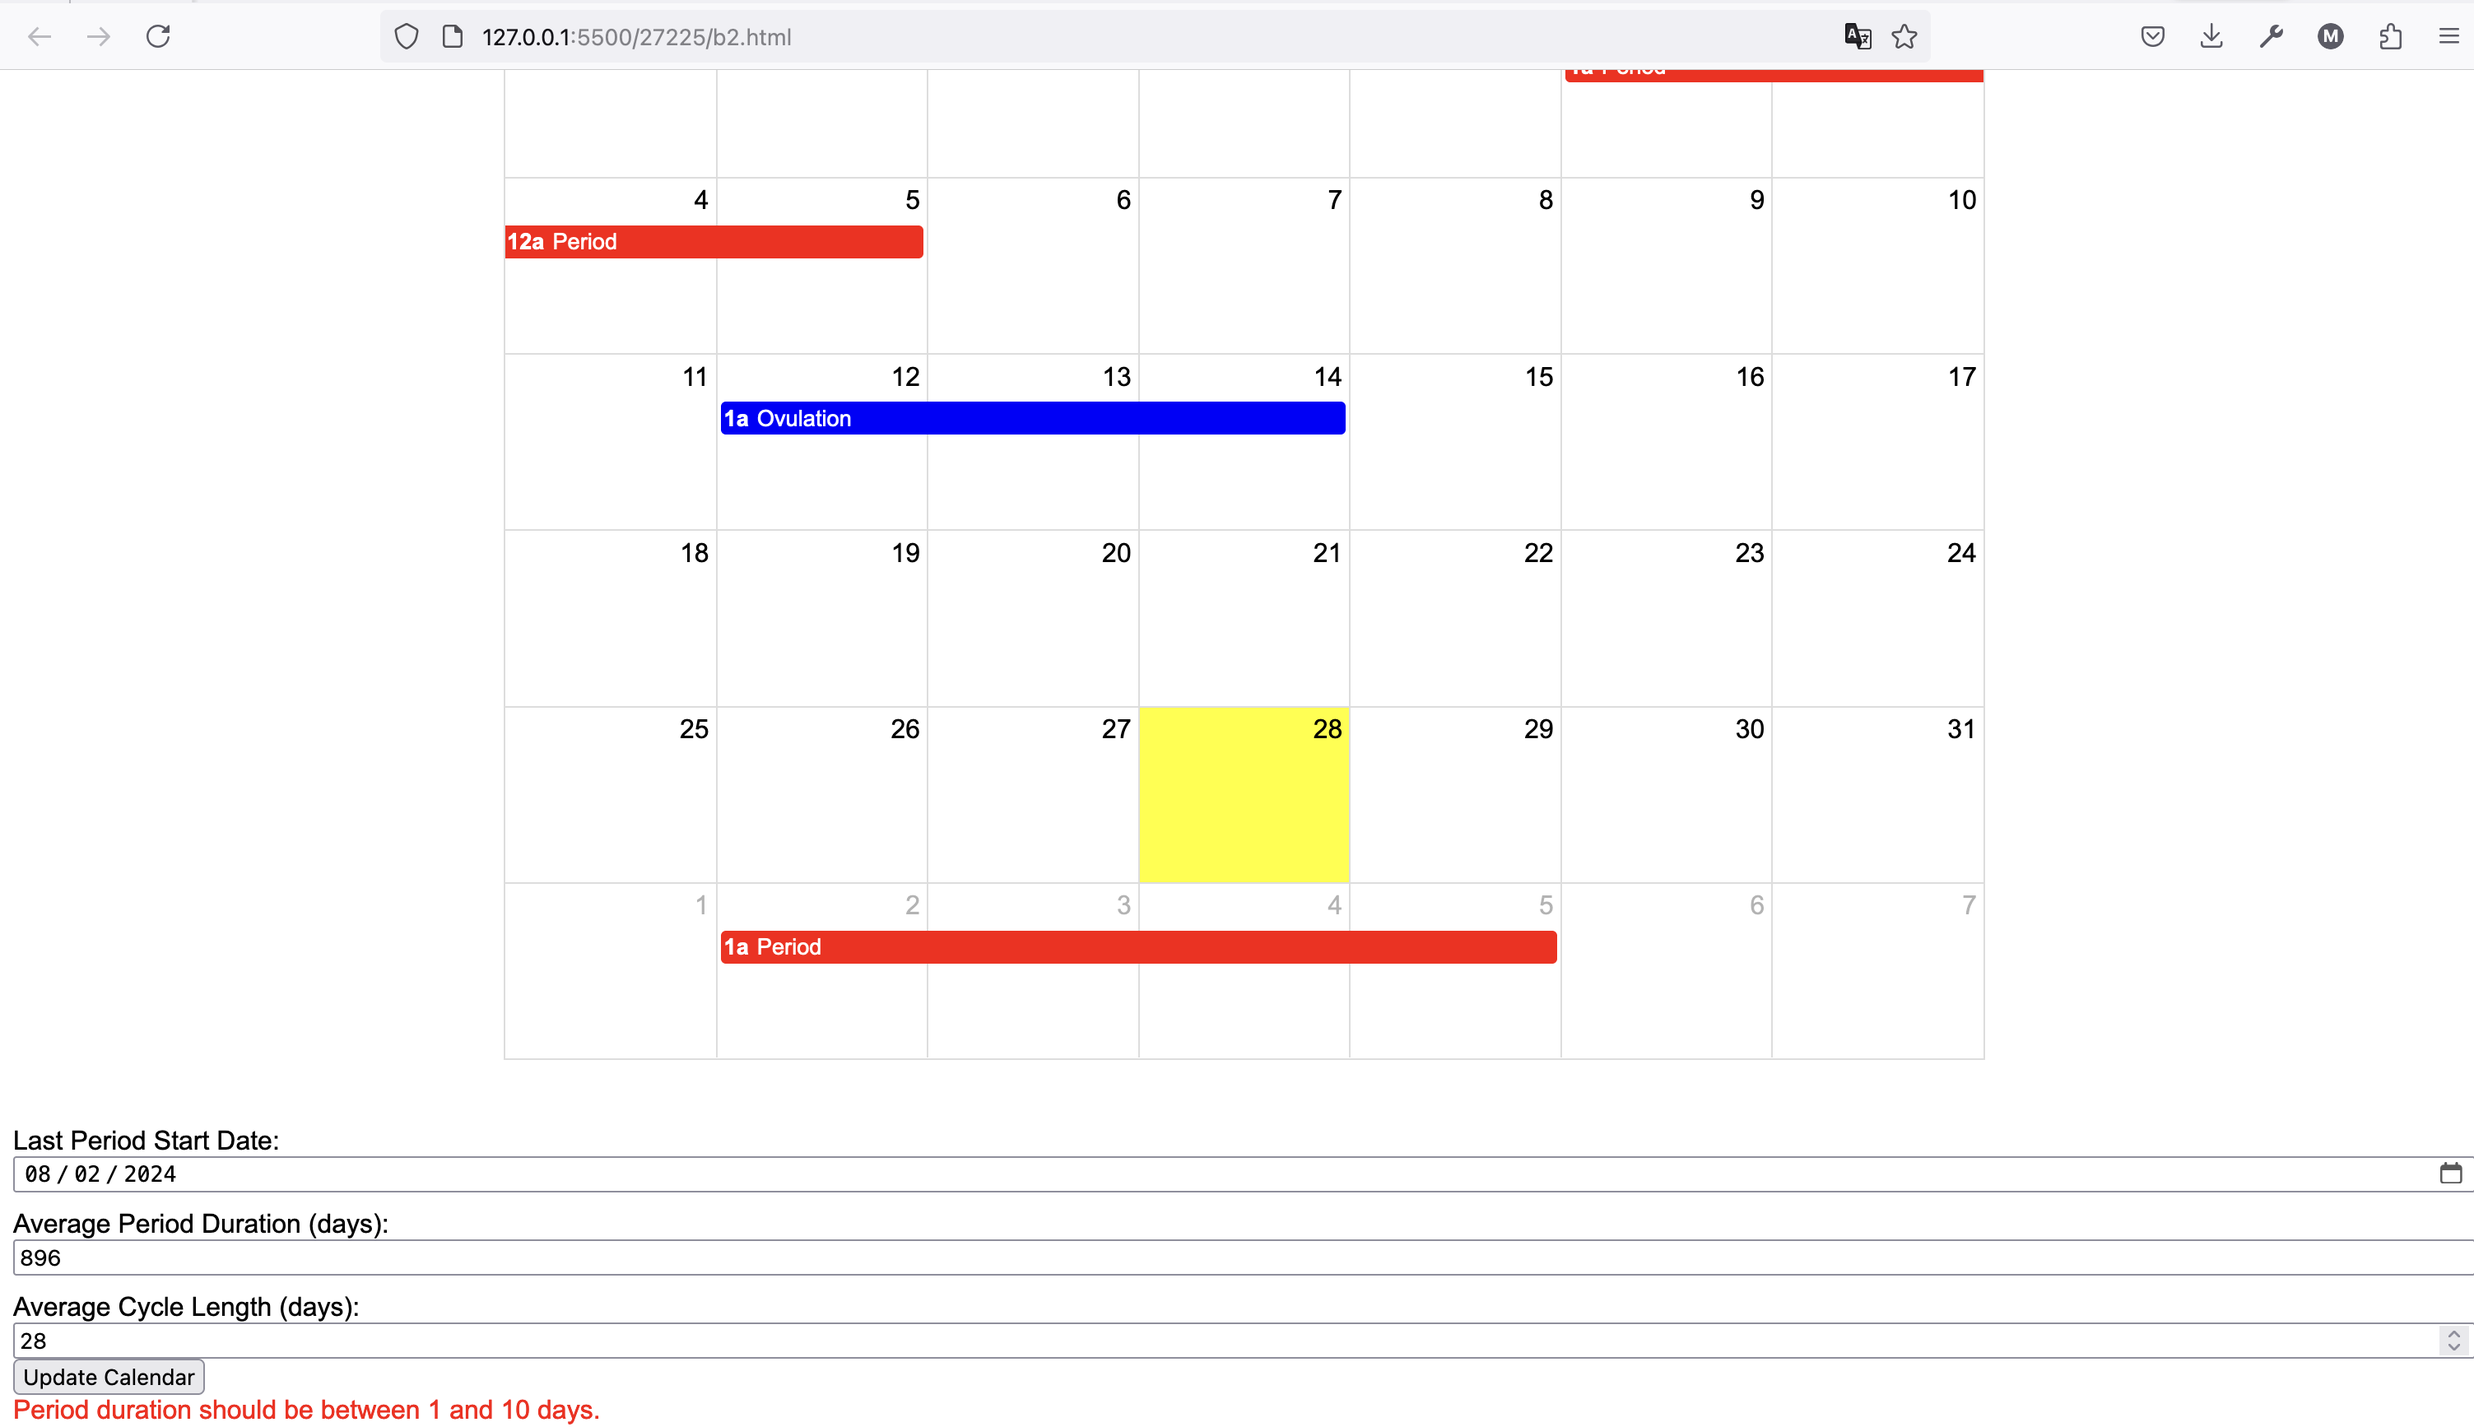
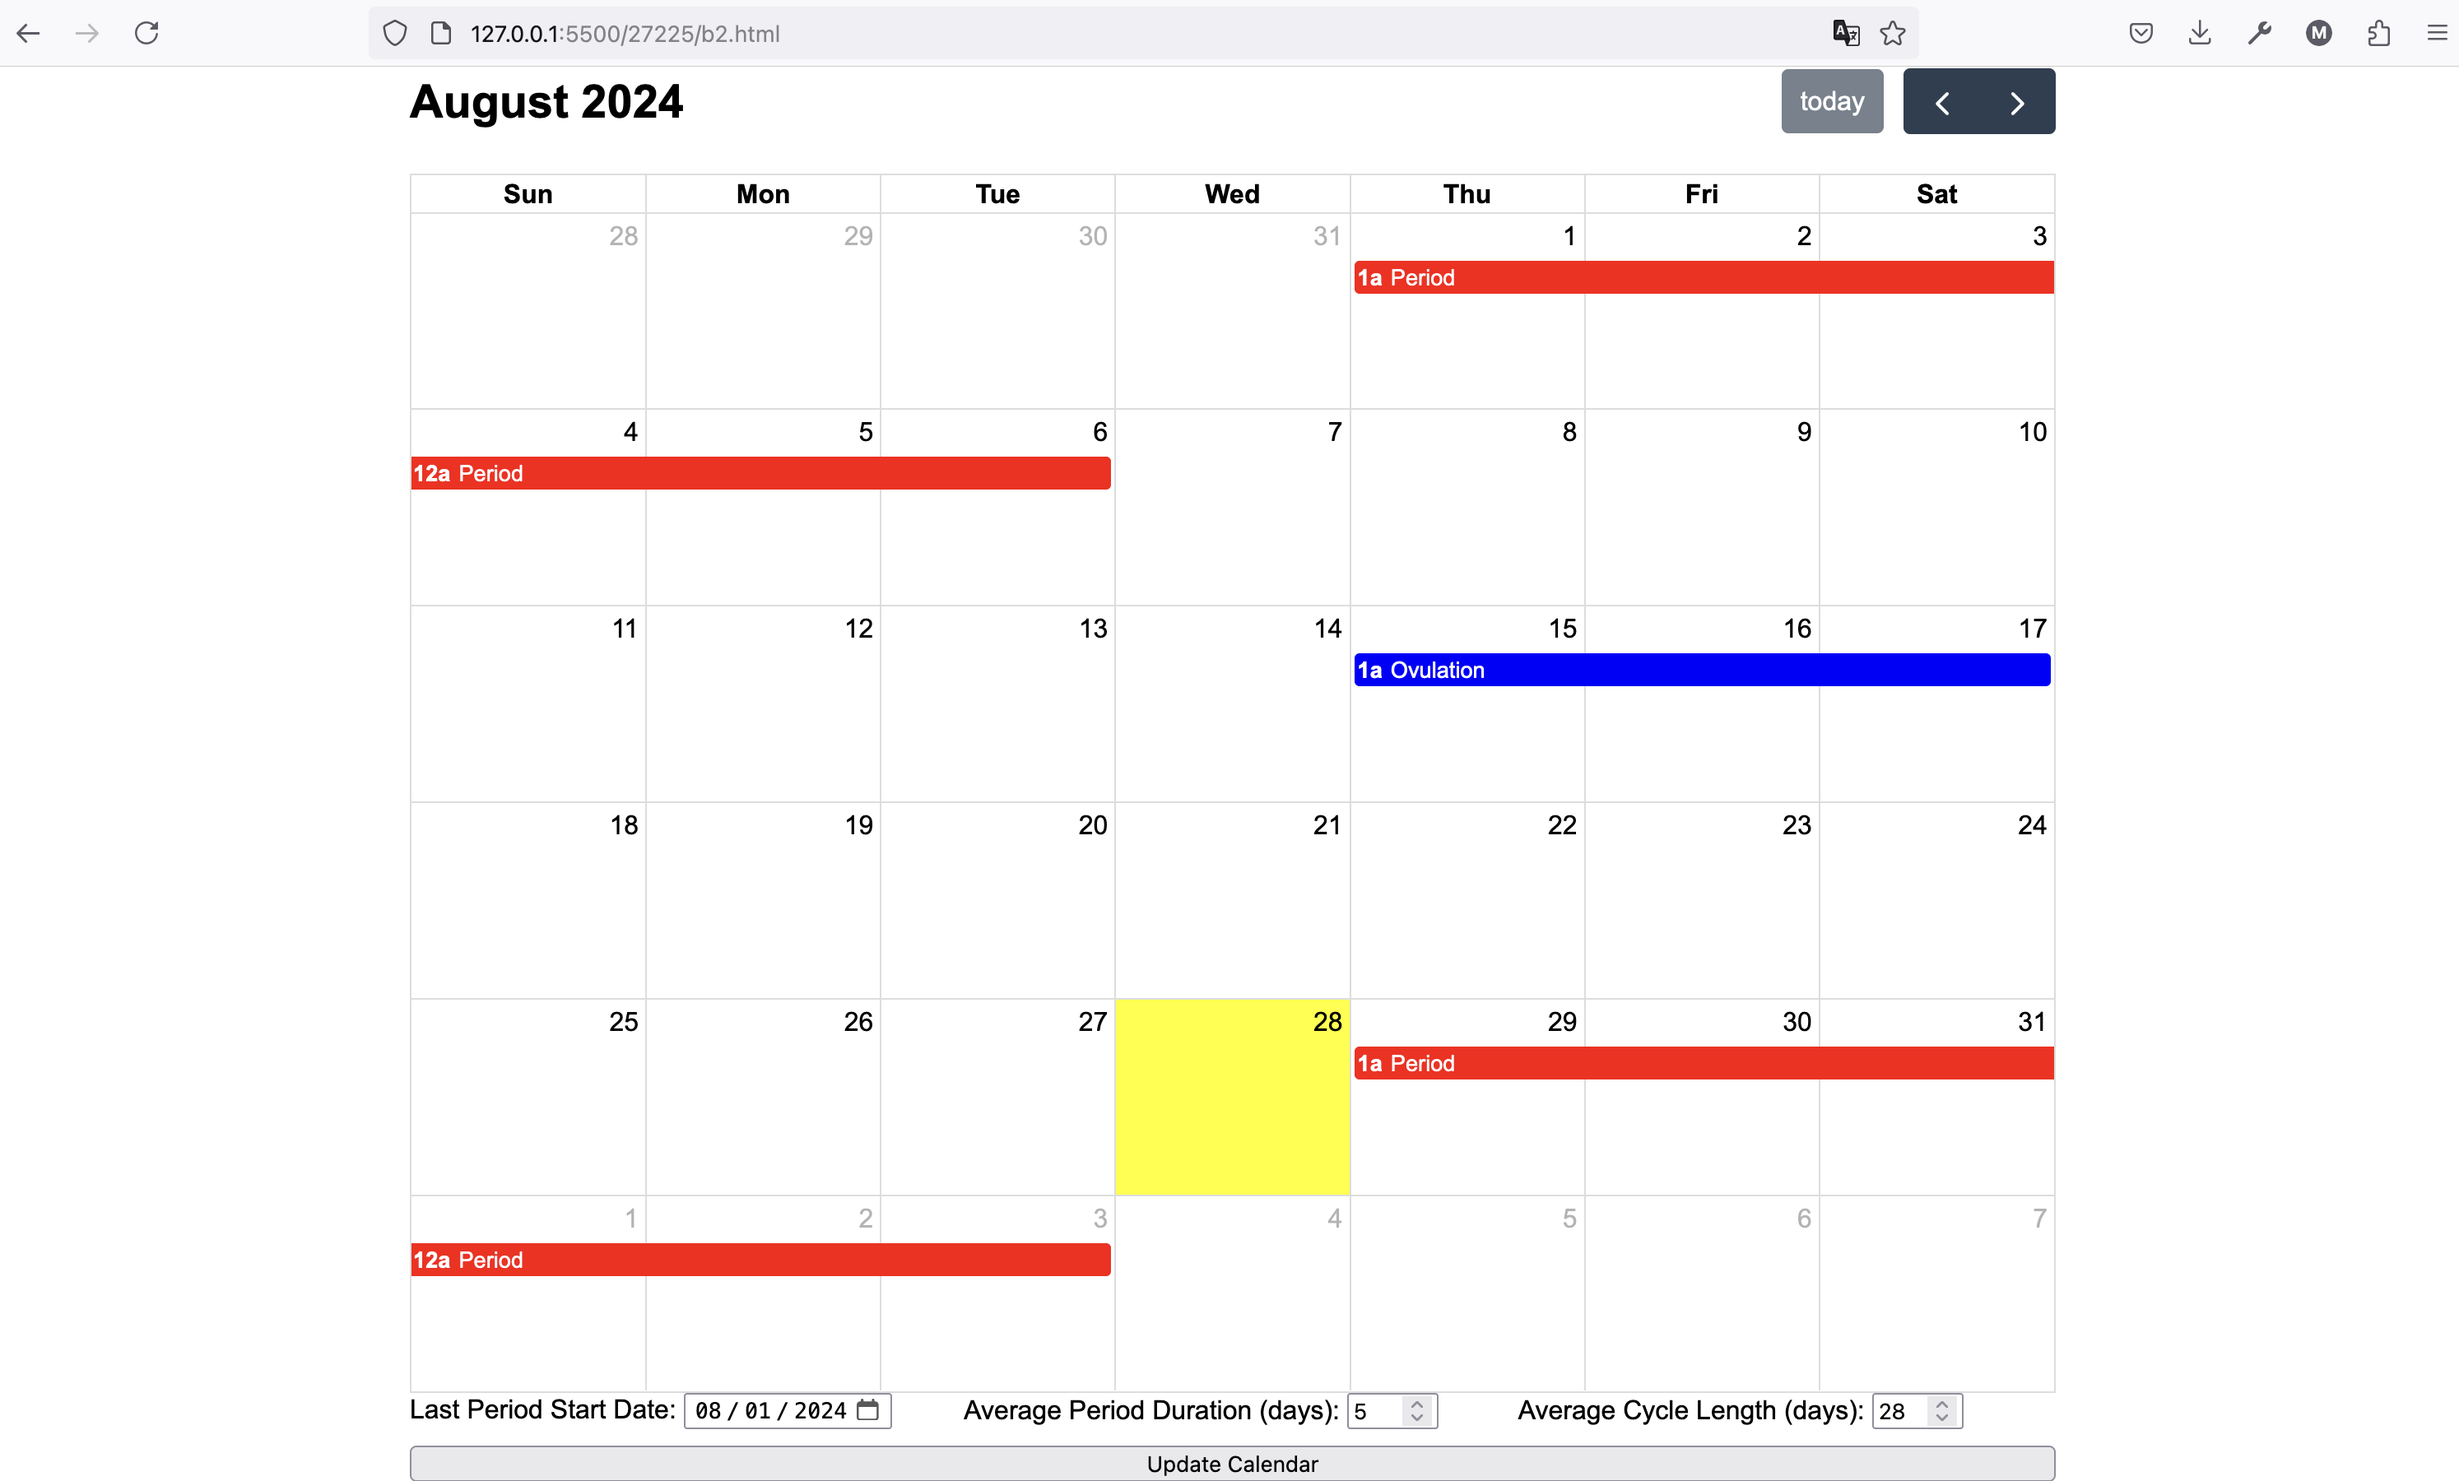
feat: add prompt 3 code

diff --git a/27225/a3.html b/27225/a3.html
@@ -1,0 +1,155 @@
+<!DOCTYPE html>
+<html lang="en">
+<head>
+<meta charset="UTF-8">
+<meta name="viewport" content="width=device-width, initial-scale=1.0">
+<title>Female Health Tracker</title>
+<link rel="stylesheet" href="https://cdn.jsdelivr.net/npm/fullcalendar@5.5.1/main.min.css">
+<link rel="stylesheet" href="https://cdnjs.cloudflare.com/ajax/libs/toastr.js/latest/toastr.min.css">
+<style>
+  body { 
+    font-family: Arial, sans-serif; 
+    padding: 10px;
+    max-width: 1000px;
+    margin: auto;
+  }
+  .fc-event.period { background-color: red; border-color: red; }
+  .fc-event.ovulation { background-color: blue; border-color: blue; }
+  .fc-day-today { background-color: yellow !important; }
+  #inputs { 
+    display: flex; 
+    flex-wrap: wrap; 
+    gap: 10px; 
+    margin-bottom: 20px;
+  }
+  #inputs > * { 
+    flex: 1 1 calc(33% - 10px); 
+    min-width: 150px; 
+  }
+  #toast-container {
+    position: fixed;
+    top: 10px;
+    right: 10px;
+    z-index: 9999;
+  }
+</style>
+</head>
+<body>
+
+<div id="calendar"></div>
+
+<form id="inputs">
+  <div>
+    <label>Last Period Start Date:</label>
+    <input type="date" id="startDate">
+  </div>
+  <div>
+    <label>Average Period Duration (days):</label>
+    <input type="number" id="duration" min="1" max="10" value="5">
+  </div>
+  <div>
+    <label>Average Cycle Length (days):</label>
+    <input type="number" id="cycleLength" min="21" max="35" value="28">
+  </div>
+  <button type="submit">Update Calendar</button>
+</form>
+
+<div id="toast-container"></div>
+
+<script src="https://cdn.jsdelivr.net/npm/fullcalendar@5.5.1/main.min.js"></script>
+<script src="https://cdnjs.cloudflare.com/ajax/libs/toastr.js/latest/toastr.min.js"></script>
+<script>
+document.addEventListener('DOMContentLoaded', function() {
+  const calendarEl = document.getElementById('calendar');
+  const inputsForm = document.getElementById('inputs');
+  let calendar;
+
+  function showToast(message, type = 'error') {
+    toastr.options = {
+      "closeButton": true,
+      "progressBar": true,
+      "positionClass": "toast-top-right",
+      "timeOut": "3000"
+    };
+    toastr[type](message);
+  }
+
+  function validateInputs() {
+    const startDate = document.getElementById('startDate').value;
+    const duration = document.getElementById('duration').value;
+    const cycleLength = document.getElementById('cycleLength').value;
+
+    if (!startDate) return showToast('Please enter a start date.');
+    if (!duration || duration < 1 || duration > 10) return showToast('Period duration must be between 1 and 10 days.');
+    if (!cycleLength || cycleLength < 21 || cycleLength > 35) return showToast('Cycle length must be between 21 and 35 days.');
+
+    return true;
+  }
+
+  function predictEvents(startDate, duration, cycleLength) {
+    const periodEvents = [];
+    const ovulationEvents = [];
+
+    const ovulationOffset = cycleLength - 14; // Assuming ovulation 14 days before the next period
+
+    for (let month = 0; month < 12; month++) {
+      const periodStart = new Date(startDate.getTime());
+      periodStart.setMonth(startDate.getMonth() + month);
+      const periodEnd = new Date(periodStart.getTime());
+      periodEnd.setDate(periodStart.getDate() + duration - 1);
+
+      const ovulationDate = new Date(periodStart.getTime());
+      ovulationDate.setDate(periodStart.getDate() - ovulationOffset);
+
+      const ovulationStart = new Date(ovulationDate.getTime());
+      const ovulationEnd = new Date(ovulationDate.getTime());
+      ovulationEnd.setDate(ovulationDate.getDate() + 2);
+
+      periodEvents.push({
+        title: 'Period',
+        start: periodStart,
+        end: periodEnd,
+        className: 'period'
+      });
+
+      ovulationEvents.push({
+        title: 'Ovulation',
+        start: ovulationStart,
+        end: ovulationEnd,
+        className: 'ovulation'
+      });
+    }
+
+    return periodEvents.concat(ovulationEvents);
+  }
+
+  inputsForm.addEventListener('submit', function(event) {
+    event.preventDefault();
+    if (validateInputs()) {
+      const startDate = new Date(document.getElementById('startDate').value);
+      const duration = parseInt(document.getElementById('duration').value, 10);
+      const cycleLength = parseInt(document.getElementById('cycleLength').value, 10);
+
+      const events = predictEvents(startDate, duration, cycleLength);
+      if (calendar) {
+        calendar.removeAllEvents();
+        calendar.addEventSource(events);
+      }
+      showToast('Calendar updated successfully!', 'success');
+    }
+  });
+
+  calendar = new FullCalendar.Calendar(calendarEl, {
+    initialView: 'dayGridMonth',
+    events: [],
+    eventDidMount: function(info) {
+      info.el.title = info.event.title;
+    }
+  });
+
+  calendar.render();
+});
+</script>
+
+</body>
+</html>

diff --git a/27225/b3.html b/27225/b3.html
@@ -1,0 +1,156 @@
+<!DOCTYPE html>
+<html lang="en">
+<head>
+<meta charset="UTF-8">
+<meta name="viewport" content="width=device-width, initial-scale=1.0">
+<title>Female Health Tracker</title>
+<link rel="stylesheet" href="https://cdn.jsdelivr.net/npm/fullcalendar@5.5.1/main.min.css">
+<link rel="stylesheet" href="https://cdn.jsdelivr.net/npm/toastify-js/src/toastify.min.css">
+<style>
+  body { 
+    font-family: Arial, sans-serif; 
+    padding: 10px;
+    max-width: 1000px;
+    margin: auto;
+  }
+  .fc-event.period { background-color: red; border-color: red; }
+  .fc-event.ovulation { background-color: blue; border-color: blue; }
+  .fc-day-today { background-color: yellow !important; }
+  #inputs { 
+    display: flex; 
+    flex-wrap: wrap; 
+    gap: 10px; 
+    margin-bottom: 20px;
+  }
+  #inputs > * { 
+    flex: 1 1 calc(33% - 10px); 
+    min-width: 150px; 
+  }
+  input[type="date"], input[type="number"] { 
+    width: 100%; 
+    box-sizing: border-box; 
+  }
+</style>
+</head>
+<body>
+
+<div id="calendar"></div>
+
+<form id="inputs">
+  <div>
+    <label>Last Period Start Date:</label>
+    <input type="date" id="startDate">
+  </div>
+  <div>
+    <label>Average Period Duration (days):</label>
+    <input type="number" id="duration" min="1" max="10" value="5">
+  </div>
+  <div>
+    <label>Average Cycle Length (days):</label>
+    <input type="number" id="cycleLength" min="21" max="35" value="28">
+  </div>
+  <button type="submit">Update Calendar</button>
+</form>
+
+<script src="https://cdn.jsdelivr.net/npm/fullcalendar@5.5.1/main.min.js"></script>
+<script src="https://cdn.jsdelivr.net/npm/toastify-js"></script>
+<script>
+document.addEventListener('DOMContentLoaded', function() {
+  const calendarEl = document.getElementById('calendar');
+  const inputsForm = document.getElementById('inputs');
+  let calendar;
+  function predictEvents(startDate, duration, cycleLength) {
+    const events = [];
+    for (let i = 0; i < 12; i++) {
+      const periodStart = new Date(startDate);
+      periodStart.setDate(periodStart.getDate() + i * cycleLength);
+      const periodEnd = new Date(periodStart);
+      periodEnd.setDate(periodEnd.getDate() + duration);
+
+      // Ovulation approximately 14 days before the next period
+      const ovulationStart = new Date(periodStart);
+      ovulationStart.setDate(ovulationStart.getDate() - (cycleLength - 14));
+      const ovulationEnd = new Date(ovulationStart);
+      ovulationEnd.setDate(ovulationEnd.getDate() + 2);
+
+      events.push({
+        title: 'Period',
+        start: periodStart,
+        end: periodEnd,
+        className: 'period'
+      }, {
+        title: 'Ovulation',
+        start: ovulationStart,
+        end: ovulationEnd,
+        className: 'ovulation'
+      });
+    }
+    return events;
+  }
+
+  function showToast(text, isSuccess) {
+    Toastify({
+      text: text,
+      duration: 3000,
+      gravity: "top",
+      position: 'right',
+      style: {
+        background: isSuccess ? "green" : "red",
+      }
+    }).showToast();
+  }
+
+  function validateInputs() {
+    const startDate = document.getElementById('startDate').value;
+    const duration = document.getElementById('duration').value;
+    const cycleLength = document.getElementById('cycleLength').value;
+
+    if (!startDate) {
+      showToast('Please enter a valid start date.', false);
+      return false;
+    }
+
+    if (duration < 1 || duration > 10) {
+      showToast('Period duration should be between 1 and 10 days.', false);
+      return false;
+    }
+
+    if (cycleLength < 21 || cycleLength > 35) {
+      showToast('Cycle length should be between 21 and 35 days.', false);
+      return false;
+    }
+
+    showToast('Inputs are valid. Calendar updated.', true);
+    return true;
+  }
+
+  inputsForm.addEventListener('submit', function(event) {
+    event.preventDefault();
+    if (!validateInputs()) return;
+
+    const startDate = new Date(document.getElementById('startDate').value);
+    const duration = parseInt(document.getElementById('duration').value, 10);
+    const cycleLength = parseInt(document.getElementById('cycleLength').value, 10);
+
+    const events = predictEvents(startDate, duration, cycleLength);
+    if (calendar) {
+      calendar.removeAllEvents();
+      calendar.addEventSource(events);
+    }
+  });
+
+  calendar = new FullCalendar.Calendar(calendarEl, {
+    initialView: 'dayGridMonth',
+    events: [],
+    eventDidMount: function(info) {
+      info.el.title = info.event.title;
+    }
+  });
+
+  calendar.render();
+});
+
+</script>
+
+</body>
+</html>
